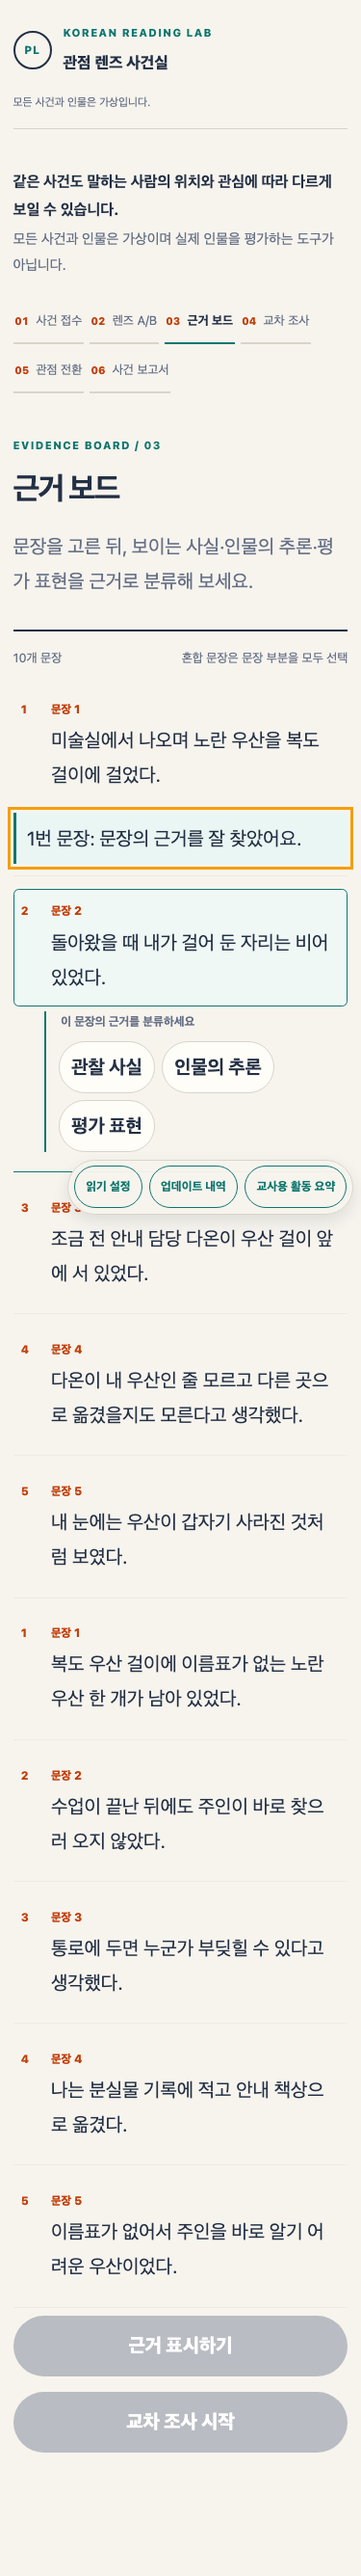
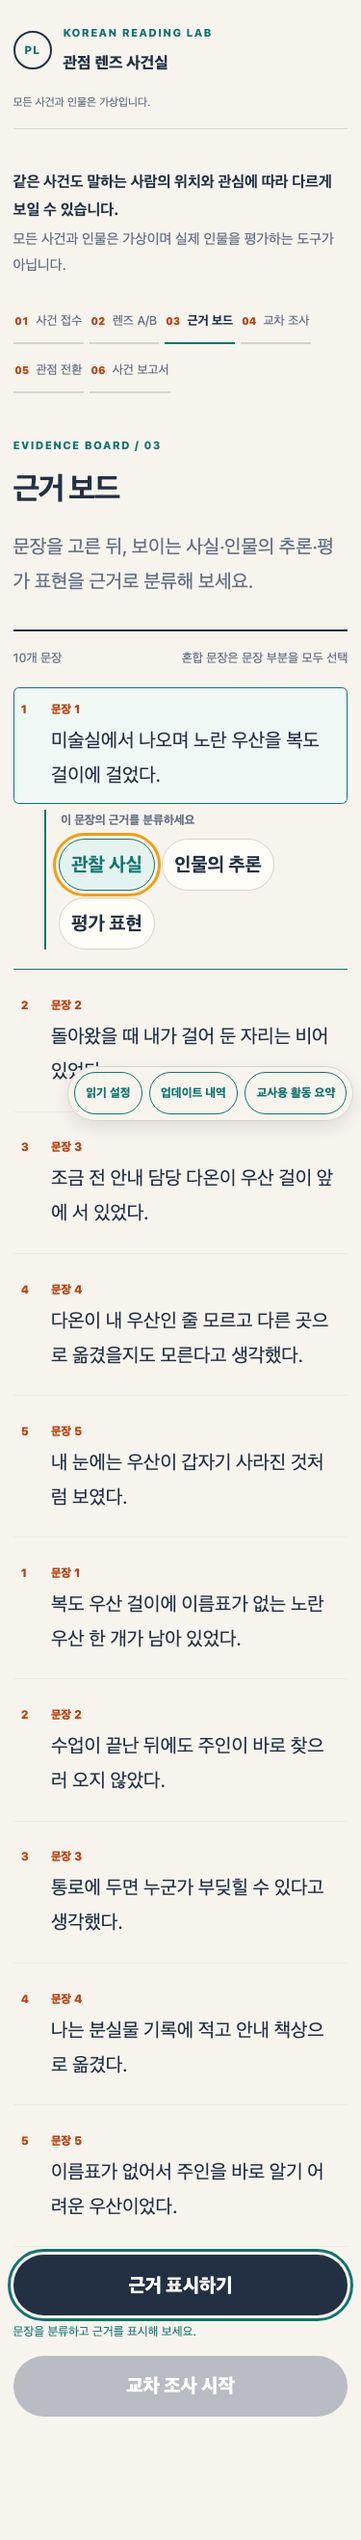
fix: close accessibility evidence gaps

diff --git a/tests/e2e/evidence-capture.spec.ts b/tests/e2e/evidence-capture.spec.ts
@@ -47,7 +47,7 @@ async function startEvidence(page: Page) {
   await press(page.getByRole('button', { name: '근거 보드로 이동', exact: true }));
 }
 
-async function classify(page: Page, index: number) {
+async function selectClassification(page: Page, index: number) {
   const sentence = pack.narrators.flatMap((narrator) => narrator.sentences)[index]!;
   await press(page.getByRole('button', { name: /^문장 \d+/ }).nth(index));
   for (const category of [...new Set(sentence.acceptedCategorySets[0] ?? [])]) await press(page.getByRole('button', { name: categoryLabels[category], exact: true }));
@@ -55,12 +55,16 @@ async function classify(page: Page, index: number) {
     const segments = page.getByRole('checkbox');
     for (let segmentIndex = 0; segmentIndex < sentence.segments.length; segmentIndex += 1) await press(segments.nth(segmentIndex), 'Space');
   }
+}
+
+async function submitClassification(page: Page, index: number) {
+  await selectClassification(page, index);
   await press(page.getByRole('button', { name: '근거 표시하기', exact: true }));
 }
 
 async function completeAllEvidence(page: Page, startIndex: number) {
   const sentences = pack.narrators.flatMap((narrator) => narrator.sentences);
-  for (let index = startIndex; index < sentences.length; index += 1) await classify(page, index);
+  for (let index = startIndex; index < sentences.length; index += 1) await submitClassification(page, index);
   await press(page.getByRole('button', { name: '교차 조사 시작', exact: true }));
 }
 
@@ -114,7 +118,7 @@ test('captures the three learner stages and reduced-motion current action', asyn
   await press(tabs.nth(0));
   await press(page.getByRole('button', { name: '중요 문장 표시', exact: true }).nth(0));
   await press(page.getByRole('button', { name: '근거 보드로 이동', exact: true }));
-  await classify(page, 0);
+  await submitClassification(page, 0);
   await captureEvidence(page, '근거 보드', 'docs/qa/evidence/375-evidence.png');
   await completeAllEvidence(page, 1);
   await completeComparisonAndRewrite(page);
@@ -123,10 +127,13 @@ test('captures the three learner stages and reduced-motion current action', asyn
 
   await startEvidence(page);
   await page.emulateMedia({ reducedMotion: 'reduce' });
-  await classify(page, 0);
+  await selectClassification(page, 0);
   const action = page.getByRole('button', { name: '근거 표시하기', exact: true });
+  await expect(action).toBeEnabled();
+  await expect(action).toHaveClass(/gi-pulse/);
+  await expect(page.locator('.action-guidance')).toBeVisible();
   await expect(action).toHaveCSS('animation-name', 'none');
-  await expect(action).toHaveCSS('outline-width', '3px');
-  await expect(action).toBeVisible();
+  const outlineWidth = await action.evaluate((element) => Number.parseFloat(window.getComputedStyle(element).outlineWidth));
+  expect(outlineWidth).toBeGreaterThanOrEqual(3);
   await captureEvidence(page, '근거 보드', 'docs/qa/evidence/reduced-motion-current-action.png');
 });

diff --git a/tests/e2e/accessibility.spec.ts b/tests/e2e/accessibility.spec.ts
@@ -70,12 +70,15 @@ async function reach(page: Page) {
   await page.reload();
   await key(page.getByRole('button', { name: `${pack.title} 사건 선택` }));
   await key(page.getByRole('radio', { name: /보이는 정보/ }), 'Space');
-  await key(page.getByRole('button', { name: '사건 렌즈 열기', exact: true }));
+  await page.locator('[data-stage-heading]').focus();
 }
 
 test('axe, semantics, tabs, announcements, and dialogs cover the full learner path', async ({ page }) => {
   await page.setViewportSize({ width: 375, height: 812 });
   await reach(page);
+  await assertStage(page, '사건 접수');
+  await noSeriousAxe(page);
+  await key(page.getByRole('button', { name: '사건 렌즈 열기', exact: true }));
   await assertStage(page, '렌즈 A/B');
   await noSeriousAxe(page);
 
@@ -161,4 +164,16 @@ test('axe, semantics, tabs, announcements, and dialogs cover the full learner pa
     await expect(dialog).toHaveCount(0);
     await expect(trigger).toBeFocused();
   }
+
+  const resetTrigger = page.getByRole('button', { name: '다른 사건 접수', exact: true });
+  await key(resetTrigger);
+  const resetDialog = page.getByRole('dialog', { name: '현재 기록을 지울까요?' });
+  await expect(resetDialog).toBeVisible();
+  await noSeriousAxe(page);
+  await page.keyboard.press('Tab');
+  await page.keyboard.press('Shift+Tab');
+  await page.keyboard.press('Escape');
+  await expect(resetDialog).toHaveCount(0);
+  await expect.poll(() => page.locator('.case-report__background').getAttribute('inert')).toBeNull();
+  await expect(resetTrigger).toBeFocused();
 });

diff --git a/src/components/ModalDialog.test.tsx b/src/components/ModalDialog.test.tsx
@@ -2,6 +2,7 @@ import { cleanup, render, screen, waitFor } from '@testing-library/react';
 import userEvent from '@testing-library/user-event';
 import { useEffect, useRef } from 'react';
 import { afterEach, describe, expect, it, vi } from 'vitest';
+import { ReportResetControl } from '../features/report/ReportResetControl';
 import { ModalDialog } from './ModalDialog';
 
 afterEach(cleanup);
@@ -51,6 +52,22 @@ describe('ModalDialog', () => {
     render(<ModalDialog id="history-dialog" title="업데이트 내역" open triggerRef={triggerRef} onClose={onClose}><p>내용</p></ModalDialog>);
     await user.click(screen.getByRole('button', { name: '닫기' }));
     expect(onClose).toHaveBeenCalledTimes(1);
+  });
+
+  it('restores focus after a nested inert wrapper is released', async () => {
+    const user = userEvent.setup();
+    render(
+      <ReportResetControl onReset={vi.fn()}>
+        {(triggerRef, openDialog) => (
+          <button type="button" ref={triggerRef} onClick={openDialog}>기록 초기화</button>
+        )}
+      </ReportResetControl>,
+    );
+
+    const trigger = screen.getByRole('button', { name: '기록 초기화' });
+    await user.click(trigger);
+    await user.keyboard('{Escape}');
+    await waitFor(() => expect(trigger).toHaveFocus());
   });
 
   it('does not move focus to a trigger on the initial closed mount', () => {

diff --git a/src/test/releaseReadiness.test.ts b/src/test/releaseReadiness.test.ts
@@ -38,6 +38,11 @@ describe('local release-readiness packet', () => {
     }
     expect(readme).toMatch(/업데이트 내역/);
     expect(readme).toMatch(/개선.*행|행.*개선/s);
+    for (const stage of ['사건 접수', '렌즈 A/B', '근거 보드', '교차 조사(처음 생각)', '중립 기록 열기·수정 비교', '관점 전환', '사건 보고서']) {
+      expect(readme).toContain(stage);
+    }
+    expect(readme).toMatch(/중립 기록은 처음 비교를 저장하기 전까지 숨겨져/);
+    expect(readme).toMatch(/점수 없이.*사실.*이유 문장|사실.*이유 문장.*점수 없이/s);
   });
 
   it('records twelve concrete manual accessibility checks with a literal environment', () => {

diff --git a/src/components/ModalDialog.tsx b/src/components/ModalDialog.tsx
@@ -29,7 +29,11 @@ export function ModalDialog({ id, title, open, triggerRef, children, onClose, sh
 
   useEffect(() => {
     if (!open) {
-      if (wasOpenRef.current) triggerRef.current?.focus();
+      if (wasOpenRef.current) {
+        const restoreFocus = window.setTimeout(() => triggerRef.current?.focus(), 0);
+        wasOpenRef.current = false;
+        return () => window.clearTimeout(restoreFocus);
+      }
       wasOpenRef.current = false;
       return undefined;
     }

diff --git a/README.md b/README.md
@@ -26,6 +26,14 @@ npm run lint:filesize
 
 사건 팩은 `playground-storage-box`, `missing-umbrella-tag`, `club-notice-poster`, `library-window-seat` 네 가지입니다.
 
+## 학습 흐름
+
+학습자가 만나는 여섯 단계의 화면 흐름은 다음 순서입니다.
+
+`사건 접수 → 렌즈 A/B → 근거 보드 → 교차 조사(처음 생각) → 중립 기록 열기·수정 비교 → 관점 전환 → 사건 보고서`
+
+중립 기록은 처음 비교를 저장하기 전까지 숨겨져 있다가, 저장 후 `중립 기록 열기·수정 비교`에서 열어 볼 수 있습니다. 사건 보고서는 점수 없이 사실과 이유 문장을 연결해 보여 주며, 어느 관점이 맞는지 판정하지 않습니다.
+
 ## 저장 동작
 
 허용된 브라우저 저장 키는 다음 세 개뿐입니다.

diff --git a/docs/qa/manual-accessibility-checklist.md b/docs/qa/manual-accessibility-checklist.md
@@ -1,6 +1,6 @@
 # 수동 접근성·출력 점검표
 
-기록일: **2026-08-27 KST** · 브라우저: **Chrome 139** · 운영체제: **macOS 15** · 결과: **PASS**
+기록일: **2026-08-27 KST** · 브라우저: **Chrome 151.0.7922.174** · 운영체제: **macOS 26.6.2** · 결과: **PASS**
 
 각 항목은 실제 학습자 흐름에서 확인하고, 실패하면 수정 후 다시 확인합니다. 이 기록은 Task 18의 로컬 품질 패킷이며 배포 승인을 의미하지 않습니다.
 
